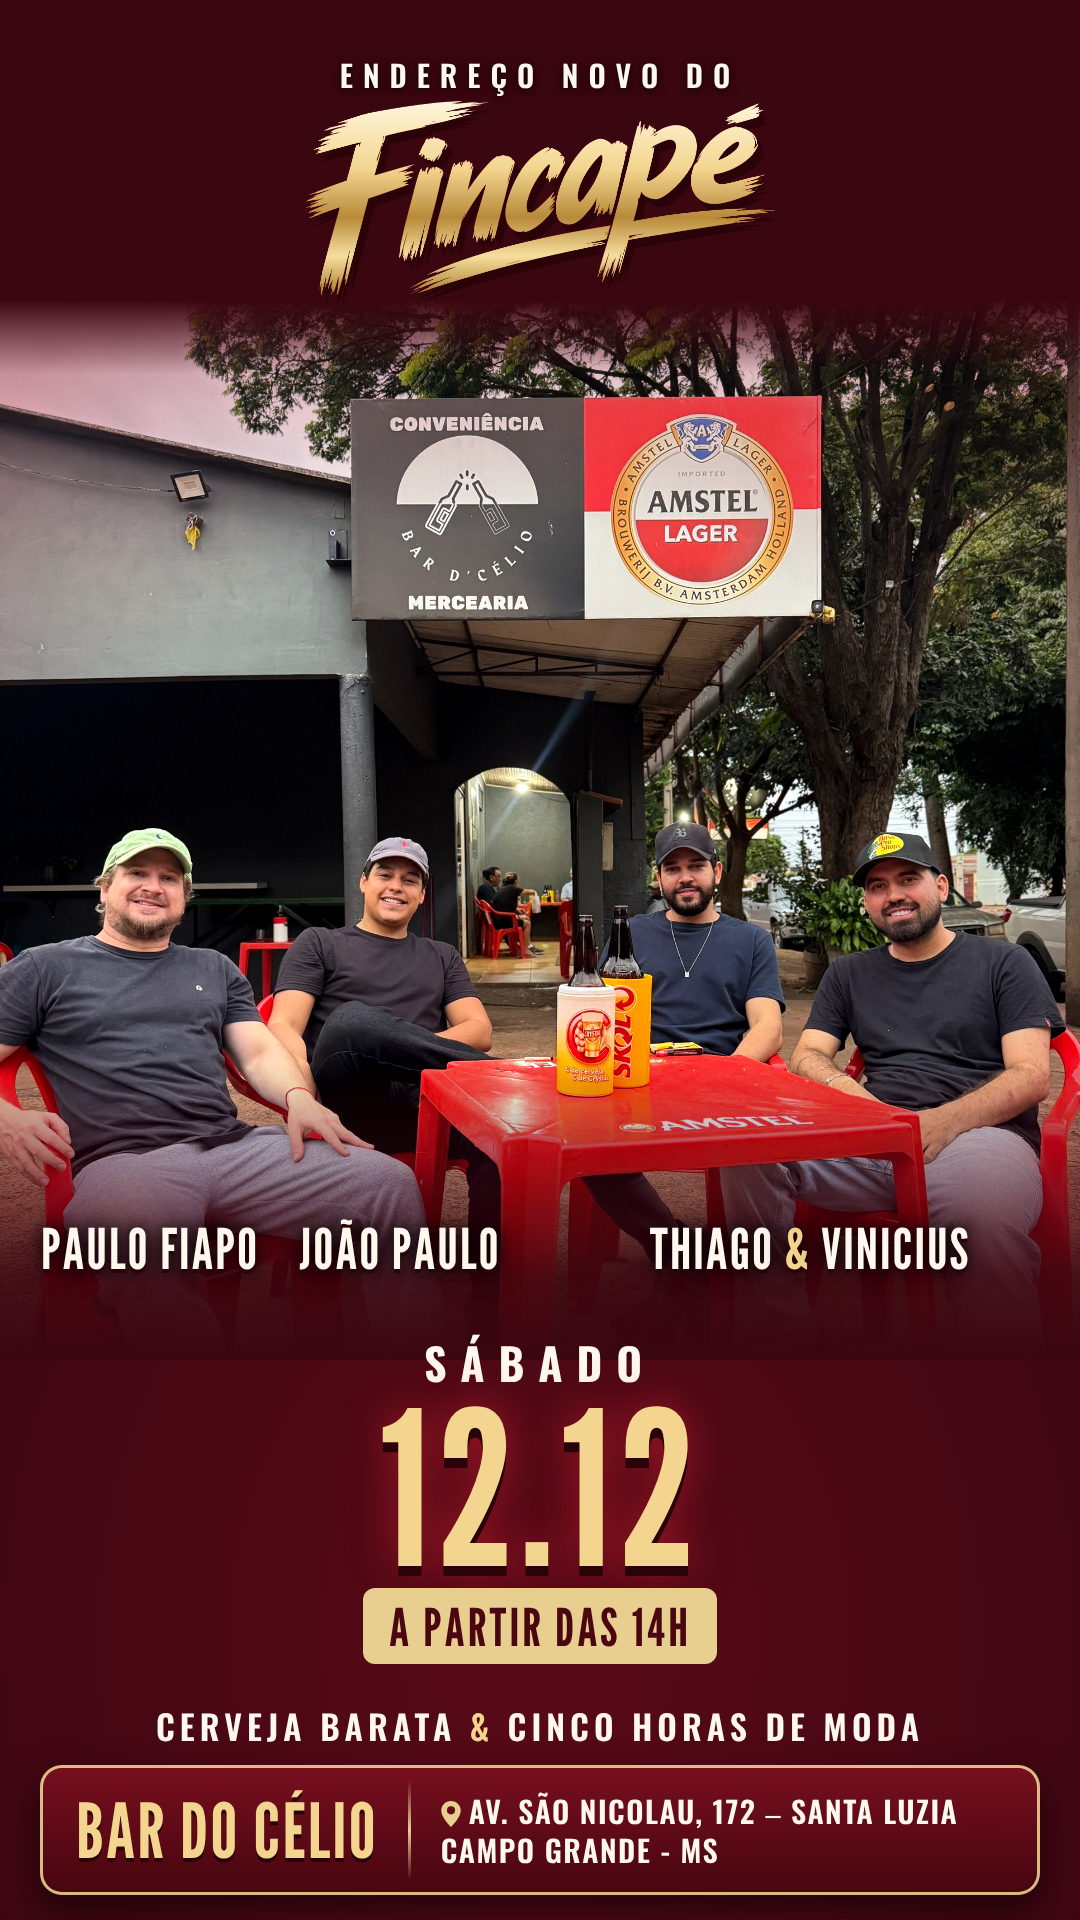
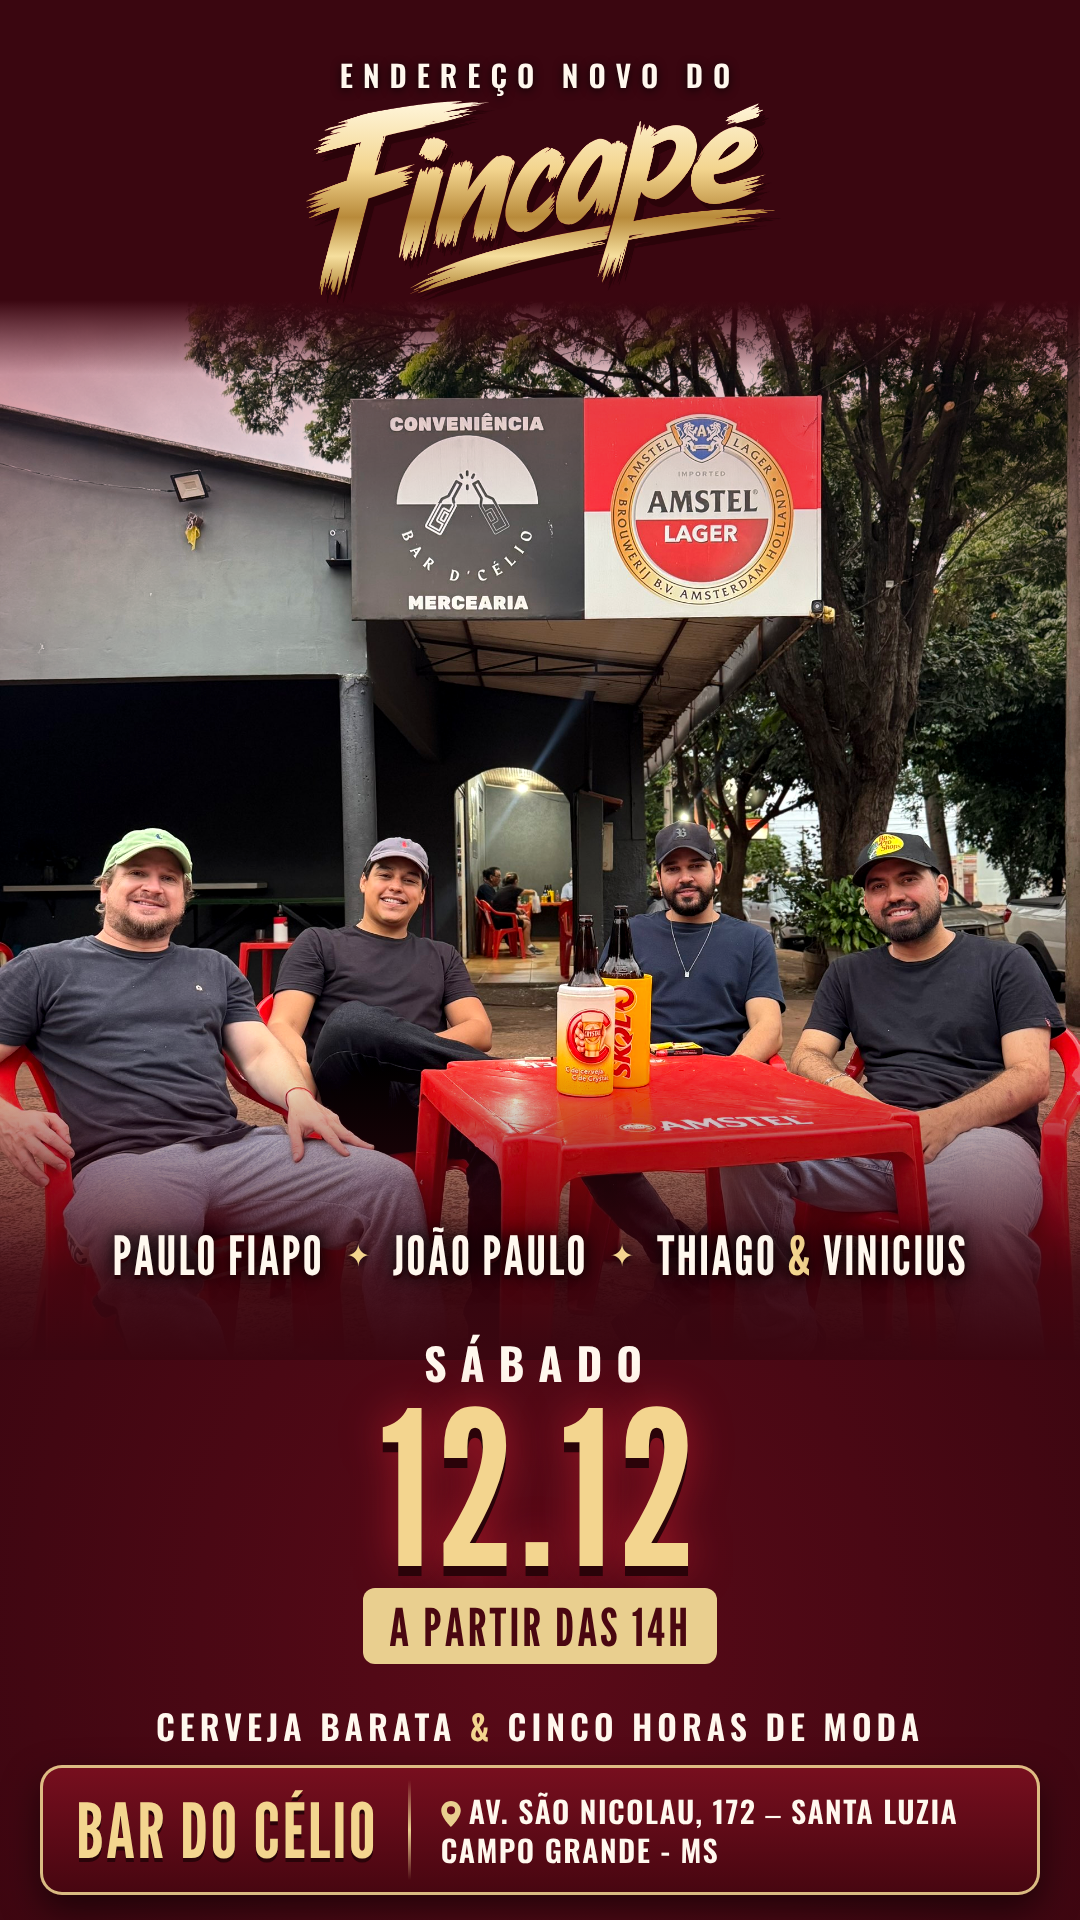
Flyers Bar do Célio: nomes centralizados numa linha
Claude-Session: https://claude.ai/code/session_011ekbKkesG7Dj1t6fMrmbxk

Changed region(s): [[0.0306, 0.625, 0.55, 0.6875], [0.5806, 0.625, 0.9167, 0.6875]]

diff --git a/trabalho/flyer-celio/flyer.html b/trabalho/flyer-celio/flyer.html
@@ -37,13 +37,13 @@
   body.feed .logo { width: 360px; height: 148px; }
 
   /* Nomes dos artistas */
-  #nomes { position: absolute; left: 0; top: 1215px; width: 1080px; height: 80px; }
-  .art-nome { position: absolute; top: 0; text-align: center; font-size: 56px; letter-spacing: 2px; color: var(--creme); white-space: nowrap;
+  #nomes { position: absolute; left: 0; top: 1215px; width: 1080px; height: 80px; display: flex; justify-content: center; align-items: center; gap: 22px; }
+  .art-nome { font-size: 54px; letter-spacing: 2px; color: var(--creme); white-space: nowrap;
     text-shadow: 0 4px 0 #2a0309, 0 0 14px rgba(0,0,0,.95), 0 0 28px rgba(0,0,0,.8); }
   .art-nome b { color: var(--ouro-claro); font-weight: 400; }
-  #n1 { left: 0; width: 300px; } #n2 { left: 250px; width: 300px; } #n3 { left: 590px; width: 440px; }
+  .estrela { font-size: 30px; color: var(--ouro-claro); text-shadow: 0 0 10px rgba(0,0,0,.9); }
   body.feed #nomes { top: 935px; }
-  body.feed .art-nome { font-size: 50px; }
+  body.feed .art-nome { font-size: 48px; }
 
   /* Data grande */
   #data { position: absolute; left: 0; top: 1330px; width: 1080px; text-align: center; }
@@ -84,8 +84,8 @@
   </div>
 
   <div id="nomes">
-    <div class="art-nome" id="n1">PAULO FIAPO</div>
-    <div class="art-nome" id="n2">JOÃO PAULO</div>
+    <div class="art-nome" id="n1">PAULO FIAPO</div><div class="estrela">✦</div>
+    <div class="art-nome" id="n2">JOÃO PAULO</div><div class="estrela">✦</div>
     <div class="art-nome" id="n3">THIAGO <b>&amp;</b> VINICIUS</div>
   </div>
 
